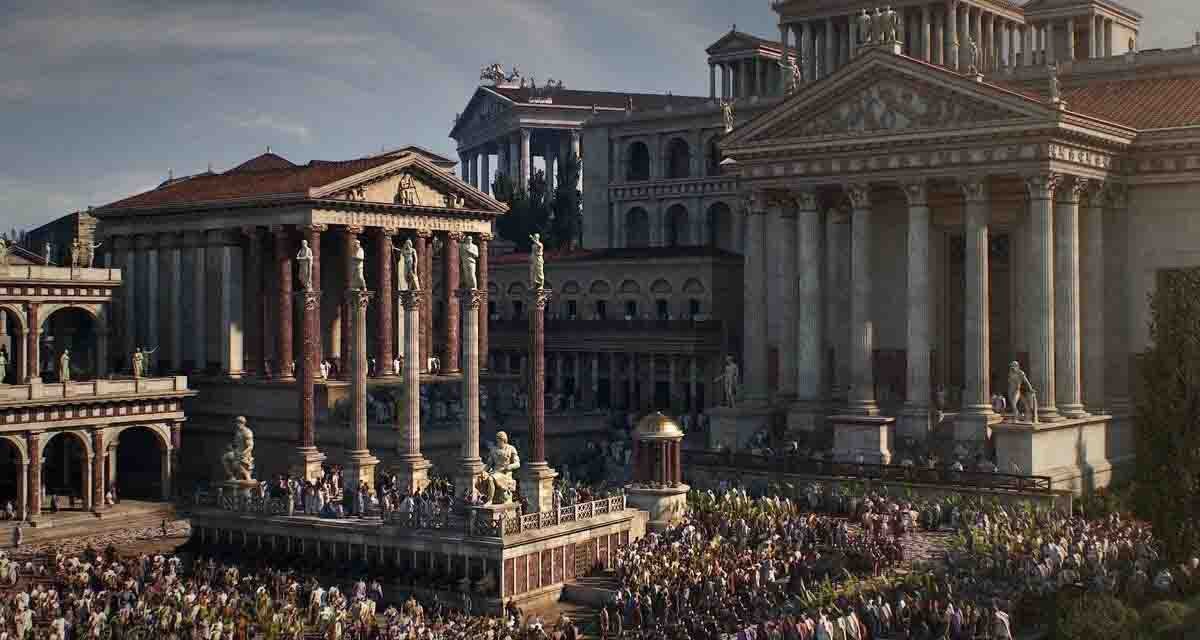
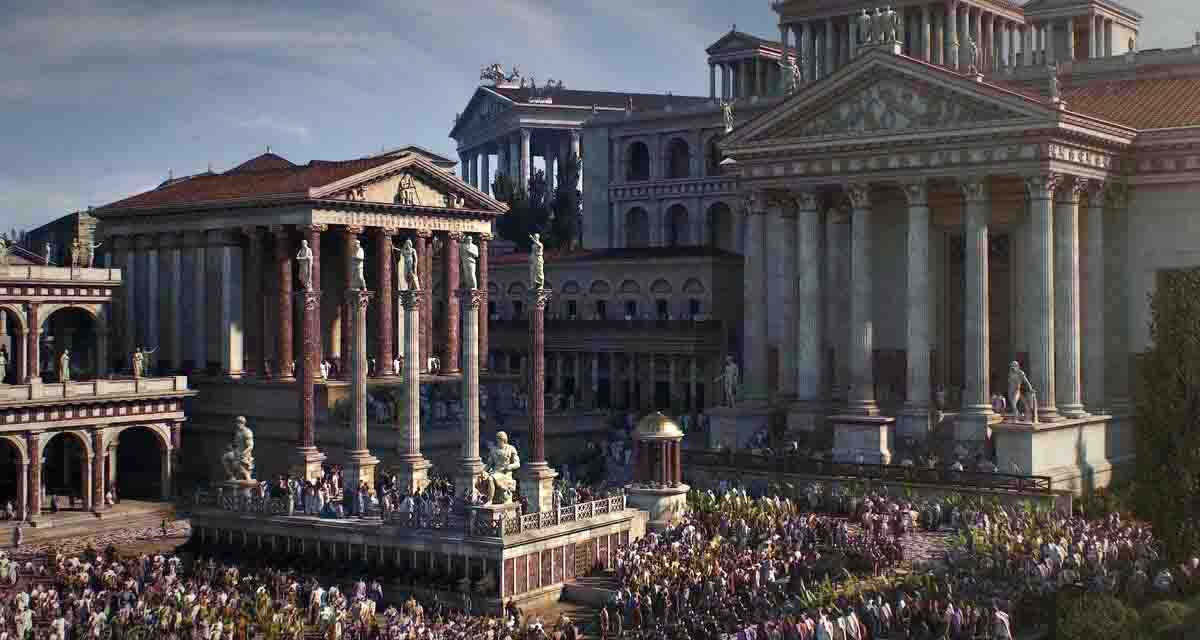
Made history page BG lighter

diff --git a/CSS/History/page_style.css b/CSS/History/page_style.css
@@ -1,8 +1,8 @@
 body{
     background-image: linear-gradient(
             to top,
-            rgba(0, 0, 0, 0.85),
-            rgba(0, 0, 0, 0.44) 45%,
-            rgba(0, 0, 0, 0.8) 100%
+            rgba(0, 0, 0, 0.8),
+            rgba(0, 0, 0, 0.4) 45%,
+            rgba(0, 0, 0, 0.5) 100%
     ), url('../../images/history-page-bg.jpeg');
 }
